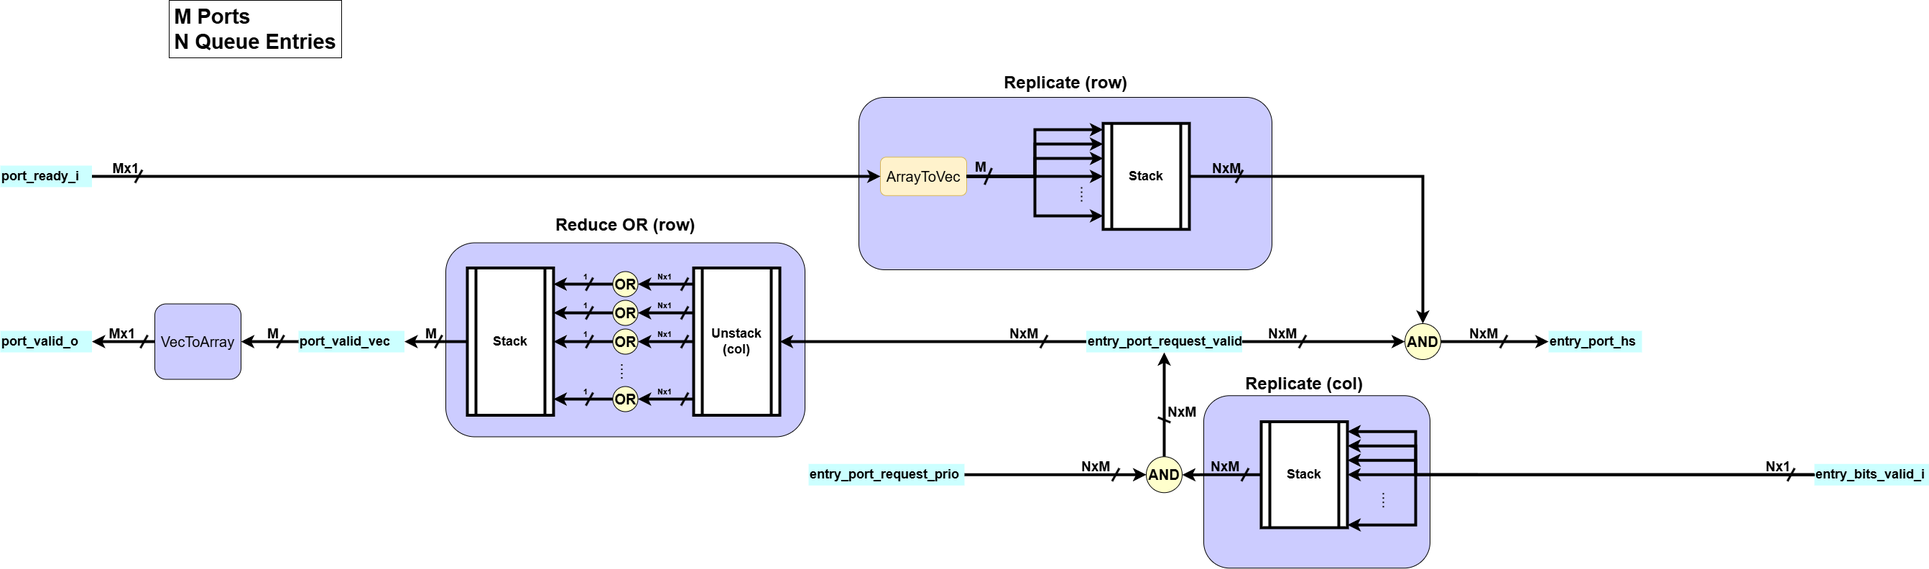
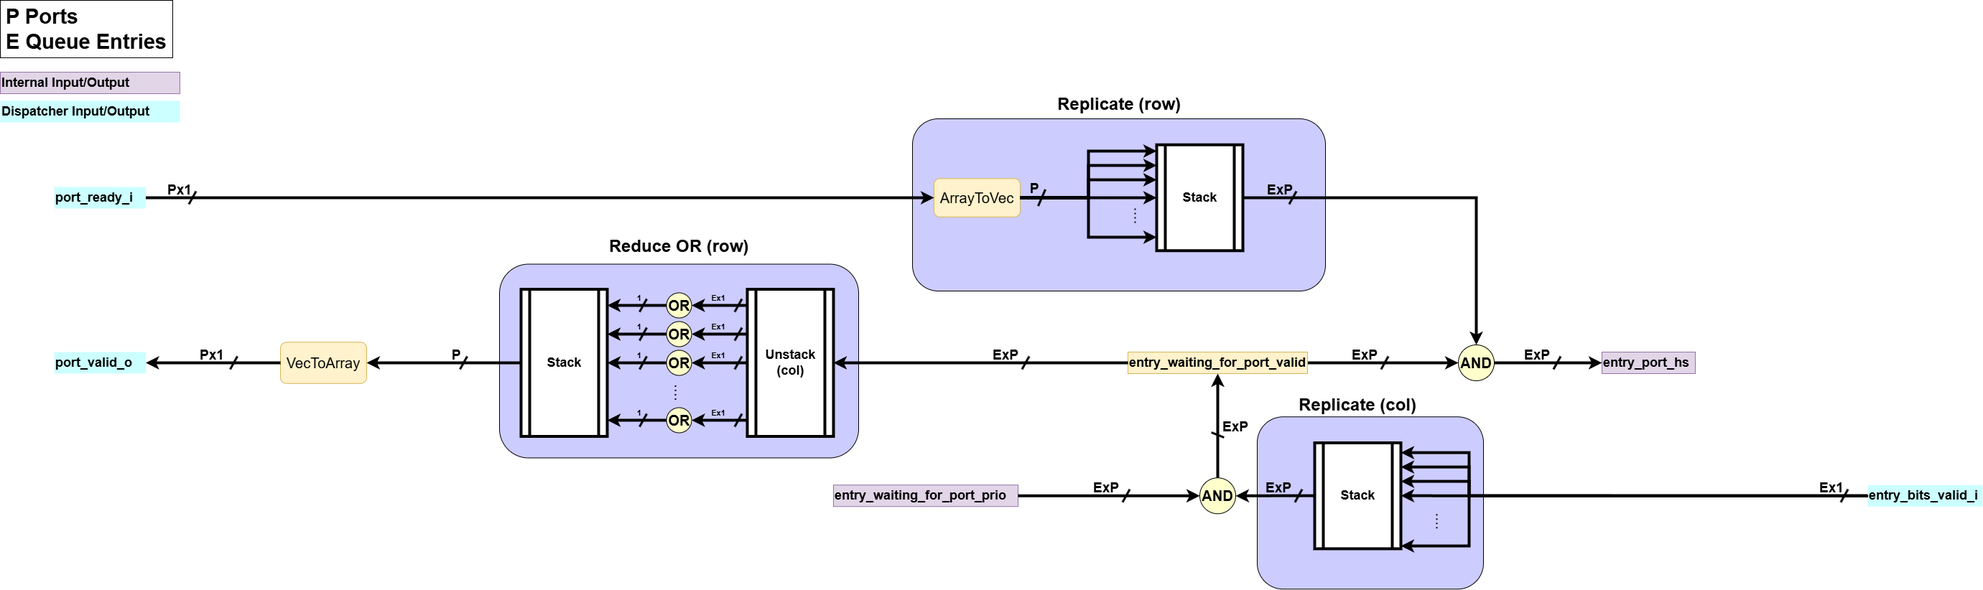
temp

diff --git a/tools/backend/lsq-generator-python/vhdl_gen/generators/dispatchers.py b/tools/backend/lsq-generator-python/vhdl_gen/generators/dispatchers.py
@@ -429,9 +429,9 @@ class QueueToPortDispatcher:
                 ctx, 'port_bits', 'o', self.numPorts, self.bitsW)
         port_valid_o = LogicArray(ctx, 'port_valid', 'o', self.numPorts)
         port_ready_i = LogicArray(ctx, 'port_ready', 'i', self.numPorts)
-        entry_valid_i = LogicArray(ctx, 'entry_valid', 'i', self.numEntries)
-        entry_bits_valid_i = LogicArray(
-            ctx, 'entry_bits_valid', 'i', self.numEntries)
+        entry_alloc_i = LogicArray(ctx, 'entry_alloc', 'i', self.numEntries)
+        entry_payload_valid_i = LogicArray(
+            ctx, 'entry_payload_valid', 'i', self.numEntries)
         if (self.numPorts != 1):
             entry_port_idx_i = LogicVecArray(
                 ctx, 'entry_port_idx', 'i', self.numEntries, self.portAddrW)
@@ -442,45 +442,45 @@ class QueueToPortDispatcher:
         queue_head_oh_i = LogicVec(ctx, 'queue_head_oh', 'i', self.numEntries)
 
         # one-hot port index
-        entry_port_valid = LogicVecArray(
-            ctx, 'entry_port_valid', 'w', self.numEntries, self.numPorts)
+        entry_port_idx_oh = LogicVecArray(
+            ctx, 'entry_port_idx_oh', 'w', self.numEntries, self.numPorts)
         for i in range(0, self.numEntries):
             if (self.numPorts == 1):
-                arch += Op(ctx, entry_port_valid[i], 1)
+                arch += Op(ctx, entry_port_idx_oh[i], 1)
             else:
-                arch += BitsToOH(ctx, entry_port_valid[i], entry_port_idx_i[i])
+                arch += BitsToOH(ctx, entry_port_idx_oh[i], entry_port_idx_i[i])
 
         # This matrix shows entry-port pairs that the entry is linked with the port
-        entry_port_request = LogicVecArray(
-            ctx, 'entry_port_request', 'w', self.numEntries, self.numPorts)
+        entry_waiting_for_port = LogicVecArray(
+            ctx, 'entry_waiting_for_port', 'w', self.numEntries, self.numPorts)
         for i in range(0, self.numEntries):
-            arch += Op(ctx, entry_port_request[i], entry_port_valid[i],
-                       'when', entry_valid_i[i], 'else', 0)
+            arch += Op(ctx, entry_waiting_for_port[i], entry_port_idx_oh[i],
+                       'when', entry_alloc_i[i], 'else', 0)
 
         # For each port, the oldest entry send bits this cycle. The priority masking per port(column)
         # generates entry-port pairs that will tranfer data/address this cycle.
         # It is also used as one-hot select signal for data Mux.
-        entry_port_request_prio = LogicVecArray(
-            ctx, 'entry_port_request_prio', 'w', self.numEntries, self.numPorts)
-        arch += CyclicPriorityMasking(ctx, entry_port_request_prio,
-                                      entry_port_request, queue_head_oh_i)
+        entry_waiting_for_port_prio = LogicVecArray(
+            ctx, 'entry_waiting_for_port_prio', 'w', self.numEntries, self.numPorts)
+        arch += CyclicPriorityMasking(ctx, entry_waiting_for_port_prio,
+                                      entry_waiting_for_port, queue_head_oh_i)
 
         if (self.bitsW != 0):
             for j in range(0, self.numPorts):
                 arch += Mux1H(ctx, port_bits_o[j],
-                              entry_bits_i, entry_port_request_prio, j)
+                              entry_bits_i, entry_waiting_for_port_prio, j)
 
         # Mask the matrix with dataValid
-        entry_port_request_valid = LogicVecArray(
-            ctx, 'entry_port_request_valid', 'w', self.numEntries, self.numPorts)
+        entry_waiting_for_port_valid = LogicVecArray(
+            ctx, 'entry_waiting_for_port_valid', 'w', self.numEntries, self.numPorts)
         for i in range(0, self.numEntries):
-            arch += Op(ctx, entry_port_request_valid[i], entry_port_request_prio[i],
-                       'when', entry_bits_valid_i[i], 'else', 0)
+            arch += Op(ctx, entry_waiting_for_port_valid[i], entry_waiting_for_port_prio[i],
+                       'when', entry_payload_valid_i[i], 'else', 0)
 
         # Reduce the matrix for each port to get the valid signal:
         # If an entry is providing data/address from a certain port, valid is set high.
         port_valid_vec = LogicVec(ctx, 'port_valid_vec', 'w', self.numPorts)
-        arch += Reduce(ctx, port_valid_vec, entry_port_request_valid, 'or')
+        arch += Reduce(ctx, port_valid_vec, entry_waiting_for_port_valid, 'or')
         arch += VecToArray(ctx, port_valid_o, port_valid_vec)
 
         # AND the request signal with ready, it shows entry-port pairs that are both valid and ready.
@@ -489,7 +489,7 @@ class QueueToPortDispatcher:
         for i in range(0, self.numEntries):
             for j in range(0, self.numPorts):
                 arch += ctx.get_current_indent() + f'{entry_port_hs.getNameWrite(i, j)} <= ' \
-                    f'{entry_port_request_valid.getNameRead(i, j)} and {port_ready_i.getNameRead(j)};\n'
+                    f'{entry_waiting_for_port_valid.getNameRead(i, j)} and {port_ready_i.getNameRead(j)};\n'
 
         # Reduce for each entry(row), which generates reset signal for entries
         for i in range(0, self.numEntries):
@@ -516,8 +516,8 @@ class QueueToPortDispatcher:
         port_bits_o:        LogicVecArray,
         port_valid_o:       LogicArray,
         port_ready_i:       LogicArray,
-        entry_valid_i:      LogicArray,
-        entry_bits_valid_i: LogicArray,
+        entry_alloc_i:      LogicArray,
+        entry_payload_valid_i: LogicArray,
         entry_port_idx_i:   LogicVecArray,
         entry_bits_i:       LogicVecArray,
         entry_reset_o:      LogicArray,
@@ -535,8 +535,8 @@ class QueueToPortDispatcher:
             port_bits_o          : Output data bits from each queue entry
             port_valid_o         : Valid signal for each input port (Valid data)
             port_ready_i         : Ready signal indicating the queue is ready to send data
-            entry_valid_i        : Valid bit for a queue entry
-            entry_bits_valid_i   : Valid bit for the contents of a queue entry
+            entry_alloc_i        : Valid bit for a queue entry
+            entry_payload_valid_i   : Valid bit for the contents of a queue entry
             entry_port_idx_i     : Indicates to which port the entry is assigned
             entry_bits_i         : Input data bits which is written in the queue entry
             entry_reset_o        : Array of reset outputs for entries.
@@ -555,8 +555,8 @@ class QueueToPortDispatcher:
                 port_bits_o         = ldp_data_o,
                 port_valid_o        = ldp_data_valid_o,
                 port_ready_i        = ldp_data_ready_i,
-                entry_valid_i       = ldq_valid,
-                entry_bits_valid_i  = ldq_data_valid,
+                entry_alloc_i       = ldq_valid,
+                entry_payload_valid_i  = ldq_data_valid,
                 entry_port_idx_i    = ldq_port_idx,
                 entry_bits_i        = ldq_data,
                 entry_reset_o       = ldq_reset,
@@ -579,10 +579,10 @@ class QueueToPortDispatcher:
                         port_ready_1_i => ldp_data_ready_1_i,
                         port_valid_0_o => ldp_data_valid_0_o,
                         port_valid_1_o => ldp_data_valid_1_o,
-                        entry_valid_0_i => ldq_valid_0_q,
-                        entry_valid_1_i => ldq_valid_1_q,
-                        entry_bits_valid_0_i => ldq_data_valid_0_q,
-                        entry_bits_valid_1_i => ldq_data_valid_1_q,
+                        entry_alloc_0_i => ldq_valid_0_q,
+                        entry_alloc_1_i => ldq_valid_1_q,
+                        entry_payload_valid_0_i => ldq_data_valid_0_q,
+                        entry_payload_valid_1_i => ldq_data_valid_1_q,
                         entry_port_idx_0_i => ldq_port_idx_0_q,
                         entry_port_idx_1_i => ldq_port_idx_1_q,
                         entry_bits_0_i => ldq_data_0_q,
@@ -614,10 +614,10 @@ class QueueToPortDispatcher:
                 f'port_valid_{i}_o => {port_valid_o.getNameWrite(i)},\n'
         for i in range(0, self.numEntries):
             arch += ctx.get_current_indent() + \
-                f'entry_valid_{i}_i => {entry_valid_i.getNameRead(i)},\n'
+                f'entry_alloc_{i}_i => {entry_alloc_i.getNameRead(i)},\n'
         for i in range(0, self.numEntries):
             arch += ctx.get_current_indent() + \
-                f'entry_bits_valid_{i}_i => {entry_bits_valid_i.getNameRead(i)},\n'
+                f'entry_payload_valid_{i}_i => {entry_payload_valid_i.getNameRead(i)},\n'
         for i in range(0, self.numEntries):
             if (self.numPorts != 1):
                 arch += ctx.get_current_indent() + \

diff --git a/docs/LSQ/QueueToPortDispatcher.md b/docs/LSQ/QueueToPortDispatcher.md
@@ -27,19 +27,31 @@ Let's assume the following generic parameters for dimensionality:
 * `PAYLOAD_WIDTH`: The bit-width of the payload (e.g., 8 bits).
 * `PORT_IDX_WIDTH`: The bit-width required to index a port (e.g., `ceil(log2(N_PORTS))`).
 
+**Signal Naming and Dimensionality**:  
+This module is generated from a higher-level description (e.g., in Python), which results in a specific convention for signal naming in the final VHDL code. It's important to understand this convention when interpreting diagrams and signal tables.
+
+- Generation Pattern: A signal that is conceptually an array in the source code (e.g., `port_bits_o`) is "unrolled" into multiple, distinct signals in the VHDL entity. The generated VHDL signals are indexed with a suffix, such as `port_bits_{p}_o`, where `{p}` is the port index.
+
+- Interpreting Diagrams: If a diagram or conceptual description uses a base name without an index (e.g., `port_bits_o`), it represents a collection of signals. The actual dimension is expanded based on the context:
+
+    - Port-related signals (like `port_bits_o`) are expanded by the number of ports (`N_PORTS`).
+    - Entry-related signals (like `entry_alloc_o`) are expanded by the number of queue entries (`N_ENTRIES`).
+
 ### Port Interface Signals
 
 ![Port Interface](./figs/qtp/QTP_Port_Interface.png)
 
 These signals are used for communication between the external modules and the dispatcher's ports.
 
-| Signal Name | Direction | Dimensionality | Description |
-| :--- | :--- | :--- | :--- |
-| **Inputs** | | | |
-| `port_ready_i`   | Input     | `N_PORTS` of `std_logic`  | Array of ready flags. `port_ready_i[p]` is high when the external circuit at port `p` is ready to receive data. |
-| **Outputs** | | | |
-| `port_bits_o`    | Output    | `N_PORTS` of `std_logic_vector(PAYLOAD_WIDTH-1:0)` | Array of data payloads sent to the access ports.                                                 |
-| `port_valid_o`   | Output    | `N_PORTS` of `std_logic`  | Array of valid flags. Asserts `port_valid_o[p]` to indicate that `port_bits_o[p]` contains valid data.     |
+
+| Python Variable Name | VHDL Signal Name | Direction | Dimensionality | Description |
+| :--- | :--- | :--- | :--- | :--- |
+| **Inputs** | | | | |
+| `port_ready_i` | `port_ready_{p}_i` | Input | `std_logic` | Ready flag from port `p`. `port_ready_{p}_i` is high when the external circuit is ready to receive data. |
+| **Outputs** | | | | |
+| `port_bits_o` | `port_bits_{p}_o` | Output | `std_logic_vector(PAYLOAD_WIDTH-1:0)` | Data payload sent to port `p`. |
+| `port_valid_o` | `port_valid_{p}_o` | Output | `std_logic` | Valid flag for port `p`. Asserted to indicate that `port_bits_{p}_o` contains valid data. |
+
 
 ### Queue Interface Signals
 
@@ -47,79 +59,85 @@ These signals are used for communication between the external modules and the di
 
 These signals handle the interaction between the dispatcher logic and the internal queue entries.
 
-| Signal Name | Direction | Dimensionality | Description |
-| :--- | :--- | :--- | :--- |
-| **Inputs** | | | |
-| `entry_valid_i`      | Input     | `N_ENTRIES` of `std_logic`                       | Is queue entry `e` logically allocated?                                           |
-| `entry_bits_valid_i` | Input     | `N_ENTRIES` of `std_logic`                       | Is the result data in entry `e` valid and ready to be sent?                          |
-| `entry_port_idx_i`   | Input     | `N_ENTRIES` of `std_logic_vector(PORT_IDX_WIDTH-1:0)` | Indicates to which port each entry is assigned.                                   |
-| `entry_bits_i`       | Input     | `N_ENTRIES` of `std_logic_vector(PAYLOAD_WIDTH-1:0)`  | The array of data stored in the queue entries.                            |
-| `queue_head_oh_i`    | Input     | `std_logic_vector(N_ENTRIES-1:0)`                |  One-hot vector indicating the head entry in the queue.                  |
-| **Outputs** | | | |
-| `entry_reset_o`      | Output    | `N_ENTRIES` of `std_logic`                       | An array of reset signals. `entry_reset_o[e]` is asserted to deallocate entry `e` after its data has been successfully sent. |
+| Python Variable Name | VHDL Signal Name | Direction | Dimensionality | Description |
+| :--- | :--- | :--- | :--- | :--- |
+| **Inputs** | | | | |
+| `entry_alloc_i` | `entry_alloc_{e}_i` | Input | `std_logic` | Is queue entry `e` logically allocated? |
+| `entry_payload_valid_i` | `entry_payload_valid_{e}_i` | Input | `std_logic` | Is the result data in entry `e` valid and ready to be sent? |
+| `entry_port_idx_i` | `entry_port_idx_{e}_i` | Input | `std_logic_vector(PORT_IDX_WIDTH-1:0)` | Indicates to which port entry `e` is assigned. |
+| `entry_bits_i` | `entry_bits_{e}_i` | Input | `std_logic_vector(PAYLOAD_WIDTH-1:0)` | The data stored in queue entry `e`. |
+| `queue_head_oh_i` | `queue_head_oh_i` | Input | `std_logic_vector(N_ENTRIES-1:0)` | One-hot vector indicating the head entry in the queue. |
+| **Outputs** | | | | |
+| `entry_reset_o` | `entry_reset_{e}_o` | Output | `std_logic` | Reset signal for an entry. `entry_reset_{e}_o` is asserte
+.d to deallocate entry `e` after its data has been successfully sent. |
 
 
-The Queue-to-Port Dispatcher has the following core responsibilities:  
+The Queue-to-Port Dispatcher has the following core responsibilities (with 3-port, 4-entry load data dispatcher example):  
 
 1. **Port Index Decoder**  
 ![Port Index Decoder Description](./figs/qtp/QTP_Port_Index_Decoder_description.png)
+![Port Index Decoder](./figs/qtp/QTP_Port_Index_Decoder.png)  
     When the group allocator allocates a queue entry, it also assigns the queue entry to a specific port, storing this port assignment as an integer. The Port Index Decoder decodes the port assignment for each queue entry from an integer representation to a one-hot representation.
     - **Input**:   
         - `entry_port_idx_i`: Queue entry-port assignment information
     - **Processing**:  
         - It performs a integer-to-one-hot conversion on the port index associated with each entry. For example, if there are 3 ports, an integer index of `1 (01 in binary)` would be converted to a one-hot vector of `010`.
     - **Output**:  
-        - `entry_port_valid`: A one-hot vector for each entry that directly corresponds to the port it is assigned to.
+        - `entry_port_idx_oh`: A one-hot vector for each entry that directly corresponds to the port it is assigned to.
 
 
 2. **Find Valid Entry**  
 ![Find Valid Entry Description](./figs/qtp/QTP_Find_Valid_Entry_description.png)
-    This block identifies which entries in the queue are currently valid (`entry_valid_i[e]` = `1`), meaning whether each entry is allocated by the group allocator or not.
+![Find Valid Entry](./figs/qtp/QTP_Find_Valid_Entry.png)   
+    This block identifies which entries in the queue are currently valid (`entry_alloc_{e}_i` = `1`), meaning whether each entry is allocated by the group allocator or not.
     - **Input**:  
-        - `entry_valid_i`: Indicates if the entry is allocated by the group allocator.
-        - `entry_port_valid`: A one-hot vector for each entry that directly corresponds to the port it is assigned to.
+        - `entry_alloc_i`: Indicates if the entry is allocated by the group allocator.
+        - `entry_port_idx_oh`: A one-hot vector for each entry that directly corresponds to the port it is assigned to.
     - **Processing**:  
-        - For each queue entry `e`, this block performs the check: `entry_valid_i AND entry_port_valid`.
-        - If an entry is not valid (i.e., not allocated, `entry_valid_i[e] = 0`), its port assignment is masked, resulting in a zero vector.
-        - If the entry is valid (i.e., allocated, `entry_valid_i[e] = 1`), its one-hot port assignment is passed through unchanged.
+        - For each queue entry `e`, this block performs the check: `entry_alloc_i AND entry_port_idx_oh`.
+        - If an entry is not valid (i.e., not allocated, `entry_alloc_{e}_i = 0`), its port assignment is masked, resulting in a zero vector.
+        - If the entry is valid (i.e., allocated, `entry_alloc_{e}_i = 1`), its one-hot port assignment is passed through unchanged.
     - **Output**:  
-        - `entry_port_request`: The resulting matrix where a `1` at position `(e,p)` indicates that entry `e` is valid and assigned to port `p`. This matrix represents all potential candidates for sending data and is fed into the arbitration logic `CyclicPriorityMasking` to determine which entry gets to send its data first for each port.
+        - `entry_waiting_for_port`: The resulting matrix where a `1` at position `(e,p)` indicates that entry `e` is valid and assigned to port `p`. This matrix represents all potential candidates for sending data and is fed into the arbitration logic `CyclicPriorityMasking` to determine which entry gets to send its data first for each port.
 
 3. **Find Oldest Valid Entry**  
 ![Find Oldest Valid Entry Description](./figs/qtp/QTP_Find_Oldest_Valid_Entry_description.png)
+![Find Oldest Valid Entry](./figs/qtp/QTP_Find_Oldest_Valid_Entry.png)   
     This is the core **Arbitration Logic** of the dispatcher. It takes all potential requests and selects a single "winner" for each port based on priority.
     - **Input**:  
-        - `entry_port_request`: A matrix where a `1` at position (e, p) indicates that queue entry `e` is valid and assigned to port `p`. This represents the entire pool of candidates competing for access to the output ports.
+        - `entry_waiting_for_port`: A matrix where a `1` at position (e, p) indicates that queue entry `e` is valid and assigned to port `p`. This represents the entire pool of candidates competing for access to the output ports.
         - `queue_head_oh_i`: The queue's one-hot head vector, which represents the priority (i.e., the oldest entry) for the current cycle.
     - **Processing**:
-        - It uses a **CyclicPriorityMasking** algorithm, which operates on each port (column of `entry_port_request`). 
+        - It uses a **CyclicPriorityMasking** algorithm, which operates on each port (column of `entry_waiting_for_port`). 
         - This ensures that among all candidates for each port, the one corresponding to the oldest entry in the queue is granted for the current clock cycle.
     - **Output**:  
-        - `entry_port_request_prio`: The resulting matrix after arbitration. For each port (column), this matrix now contains at most `1` (it's a one-hot vector or all zeros). This `1` indicates the single, highest-priority entry that has won the arbitration for that port.
+        - `entry_waiting_for_port_prio`: The resulting matrix after arbitration. For each port (column), this matrix now contains at most `1` (it's a one-hot vector or all zeros). This `1` indicates the single, highest-priority entry that has won the arbitration for that port.
 
 4. **Payload Mux**  
 ![Payload Mux Description](./figs/qtp/QTP_Payload_Mux_description.png)
+![Payload Mux](./figs/qtp/QTP_Payload_Mux.png)  
     For each access port, this block routes the payload from the oldest winning queue entry to the correct output port.
     - **Input**:  
-        - `entry_bits_i`: An array containing the data payload from all queue entries.
-        - `entry_port_request_prio`: The arbitrated selection matrix from the **Find Oldest Valid Entry** block. For each port (column), this matrix contains at most a single `1`, which identifies the oldest winning entry for that port.
+        - `entry_bits_i`: `N_ENTRIES` of the data payload from all queue entries.
+        - `entry_waiting_for_port_prio`: The arbitrated selection matrix from the **Find Oldest Valid Entry** block. For each port (column), this matrix contains at most a single `1`, which identifies the oldest winning entry for that port.
     - **Processing**:  
-        - For each output port `p`, a one-hot multiplexer (`Mux1H`) uses the `p`-th column of the `entry_port_request_prio` matrix as its select signal.
-        - This operation selects the data payload from the single oldest entry out of the entire `entry_bits_i` array and routes it to the corresponding output port.
+        - For each output port `p`, a one-hot multiplexer (`Mux1H`) uses the `p`-th column of the `entry_waiting_for_port_prio` matrix as its select signal.
+        - This operation selects the data payload from the single oldest entry out of the entire `entry_bits_i` and routes it to the corresponding output port.
     - **Output**:  
-        - `port_bits_o`: The array of data payloads. `port_bits_o[p]` holds the data from the oldest winning queue entry for that port, ready to be sent to the external access port.
+        - `port_bits_o`: `N_PORTS` of the data payloads. `port_bits_{p}_o` holds the data from the oldest winning queue entry for that port, ready to be sent to the external access port.
 
 5. **Handshake Logic**  
 ![Handshake Description](./figs/qtp/QTP_Handshake_Logic_description.png)
+![Handshake Logic](./figs/qtp/QTP_Handshake_Logic.png)  
     This block manages the `valid/ready` handshake with the external access ports. It confirms that the winning entry's data from the cyclic priority masking is valid and that the receiving port is ready, then generates a signal indicating that it is handshaked.
     - **Input**:  
-        - `port_ready_i`: The array of ready signals from the external access ports. `port_ready_i[p]` is high when port `p` can accept data.
-        - `entry_bits_valid_i`: The array indicating if the data slot of each queue entry `e` is valid and ready to be sent. 
-        - `entry_port_request_prio`: The arbitrated selection matrix from the **Find Oldest Valid Entry** block, indicating at most the single winning entry for each port.
+        - `port_ready_i`: `N_PORTS` of the ready signals from the external access ports. `port_ready_{p}_i` is high when port `p` can accept data.
+        - `entry_payload_valid_i`: Each of the `N_ENTRIES` indicates whether the data slot of queue entry `e` is valid and ready to be sent.
+        - `entry_waiting_for_port_prio`: The arbitrated selection matrix from the **Find Oldest Valid Entry** block, indicating at most the single winning entry for each port.
     - **Processing**:  
-        - **Check Winner's Data Validity**: First, the block verifies if the data in the winning entry is actually ready. It masks the `entry_port_request_prio` matrix with the `entry_bits_valid_i`. If the winning entry for a port doesn't have valid data, it is nullified for this cycle. The result is `entry_port_request_valid`.
+        - **Check Winner's Data Validity**: First, the block verifies if the data in the winning entry is actually ready. It masks the `entry_waiting_for_port_prio` matrix with the `entry_payload_valid_i`. If the winning entry for a port doesn't have valid data, it is nullified for this cycle. The result is `entry_waiting_for_port_valid`.
         - **Generate `port_valid_o`**: The result of the masking from the previous step is then reduced (OR-reduction) for each port. If any entry in a column is still valid, it means a winning entry with valid data exists for that port, and the corresponding `port_valid_o` signal is asserted high.
-        - **Perform Handshake**: Next, it determines if a successful handshake occurs. For each port `p`, a handshake is successful if the dispatcher has valid data to send (`port_valid_o[p]` is high) AND the external port is ready to receive it (`port_ready_i[p]` is high).
+        - **Perform Handshake**: Next, it determines if a successful handshake occurs. For each port `p`, a handshake is successful if the dispatcher has valid data to send (`port_valid_{p}_o` is high) AND the external port is ready to receive it (`port_ready_{p}_i` is high).
     - **Output**:  
         - `port_valid_o`: The final valid signal sent to each external access port, indicating that valid data is available on the `port_bits_o` bus.
         - `entry_port_hs`: A matrix representing the completed handshakes for the current cycle. A `1` in this matrix indicates that the data from a specific entry has been transferred to its assigned port. This signal is used by the next block **Reset** to generate the `entry_reset_o` signal.
@@ -127,6 +145,7 @@ The Queue-to-Port Dispatcher has the following core responsibilities:
 
 6. **Reset**  
 ![Reset Description](./figs/qtp/QTP_Reset_description.png)
+![Reset](./figs/qtp/QTP_Reset.png)  
     This block is responsible for clearing a queue entry after its payload has been successfully dispatched.
     - **Input**:  
         - `entry_port_hs`: A matrix representing the completed handshakes for the current cycle. A `1` in this matrix indicates that the data from a specific entry has been transferred to its assigned port.
@@ -150,8 +169,8 @@ The Queue-to-Port Dispatcher has the following core responsibilities:
         - Entry 2 -> Port 0
         - Entry 3 -> Port 2
     - Queue Head: At `Entry 1`.
-    - `entry_valid_i`: `[0, 1, 1, 1]` (Entries 1, 2, 3 are allocated).
-    - `entry_bits_valid_i`: `[0, 1, 1, 0]` (Entries 1, 2 have valid data).
+    - `entry_alloc_i`: `[0, 1, 1, 1]` (Entries 1, 2, 3 are allocated).
+    - `entry_payload_valid_i`: `[0, 1, 1, 0]` (Entries 1, 2 have valid data).
     - `port_ready_i`: `[0, 1, 1]` (Ports 1 and 2 are ready, Port 0 is not).
 
 1. **Port Index Decoder**  
@@ -163,9 +182,9 @@ The Queue-to-Port Dispatcher has the following core responsibilities:
         - `Entry 1 (Port 2)`: `100`
         - `Entry 2 (Port 0)`: `001`
         - `Entry 3 (Port 2)`: `100`
-    - This result is saved in `entry_port_valid`
+    - This result is saved in `entry_port_idx_oh`
 
-            entry_port_valid
+            entry_port_idx_oh
                     P2 P1 P0
             E0:    [ 0, 1, 0 ]
             E1:    [ 1, 0, 0 ]
@@ -177,10 +196,10 @@ The Queue-to-Port Dispatcher has the following core responsibilities:
 ![Find Valid Entry](./figs/qtp/QTP_Find_Valid_Entry.png)   
 This block identifies all queue entries that are candidates for dispatching.
 Based on the example diagram:  
-    - The `entry_valid_i` vector is `[0, 1, 1, 1]`. Therefore, **Entries 1, 2, and 3** are the potential candidates to send their data out.
-    - The logic then combines this validity information with the decoded port index for each entry (`entry_port_valid` from the `Port Index Decoder`). An entry's one-hot port information is passed through only if its corresponding `entry_valid_i` bit is `1`.
+    - The `entry_alloc_i` vector is `[0, 1, 1, 1]`. Therefore, **Entries 1, 2, and 3** are the potential candidates to send their data out.
+    - The logic then combines this validity information with the decoded port index for each entry (`entry_port_idx_oh` from the `Port Index Decoder`). An entry's one-hot port information is passed through only if its corresponding `entry_alloc_i` bit is `1`.
     - If an entry is not valid (like `Entry 0`), its output for this stage is zeroed out (`000`).
-    - The result is the `entry_port_request` matrix, which represents the initial list of all allocated queue entries and their target ports. This matrix is then sent to the `Find Oldest Valid Entry` block for arbitration.
+    - The result is the `entry_waiting_for_port` matrix, which represents the initial list of all allocated queue entries and their target ports. This matrix is then sent to the `Find Oldest Valid Entry` block for arbitration.
 
 
 3. **Find Oldest Valid Entry**  
@@ -192,7 +211,7 @@ Based on the example diagram:
     - `Port 1`: There are no valid candidates assigned to this port.
     - `Port 2`: The valid candidates are `Entry 1` and `Entry 3`. According to the priority order, `Entry 1` is the oldest and wins the arbitration for `Port 2`.
     - The output indicates that `Entry 2` won for `Port 0`, and `Entry 1` won for `Port 2`.
-    - The result is `entry_port_request_prio`
+    - The result is `entry_waiting_for_port_prio`
 
 
 4. **Payload Mux**  
@@ -218,9 +237,9 @@ Based on the example diagram:
 ![Handshake Logic](./figs/qtp/QTP_Handshake_Logic.png)  
 This block manages the final stage of the dispatch handshake. It first generates the `port_valid_o` signals by checking if the winners from arbitration have valid data to send. It then confirms which of these can complete a successful handshake.  
 Based on the example diagram:  
-    - First, the logic checks the `entry_bits_valid_i` vector, which is `[0, 1, 1, 0]`. This indicates that among the winning queue entries, data is valid and ready to be sent from `Entry 1` and `Entry 2`.
-    - For the `Port 0` winner (`Entry 2`), its `entry_bits_valid_i` is `1`. The logic asserts `port_valid_o[0]` to `1`.
-    - For the `Port 2` winner (`Entry 1`), its `entry_bits_valid_i` is `1`. The logic asserts `port_valid_o[2]` to `1`.
+    - First, the logic checks the `entry_payload_valid_i` vector, which is `[0, 1, 1, 0]`. This indicates that among the winning queue entries, data is valid and ready to be sent from `Entry 1` and `Entry 2`.
+    - For the `Port 0` winner (`Entry 2`), its `entry_payload_valid_i` is `1`. The logic asserts `port_valid_o[0]` to `1`.
+    - For the `Port 2` winner (`Entry 1`), its `entry_payload_valid_i` is `1`. The logic asserts `port_valid_o[2]` to `1`.
     - Next, the logic checks incoming `port_ready_i` signals from the access ports, which are `[0, 1, 1]`. This means that `Port 1` and `Port 2` are ready, but `Port 0` is not. A final handshake is successful only if the dispatcher has valid data to send `AND` the port is ready to receive. The `entry_port_hs` matrix shows this final result:
 
             entry_port_hs
